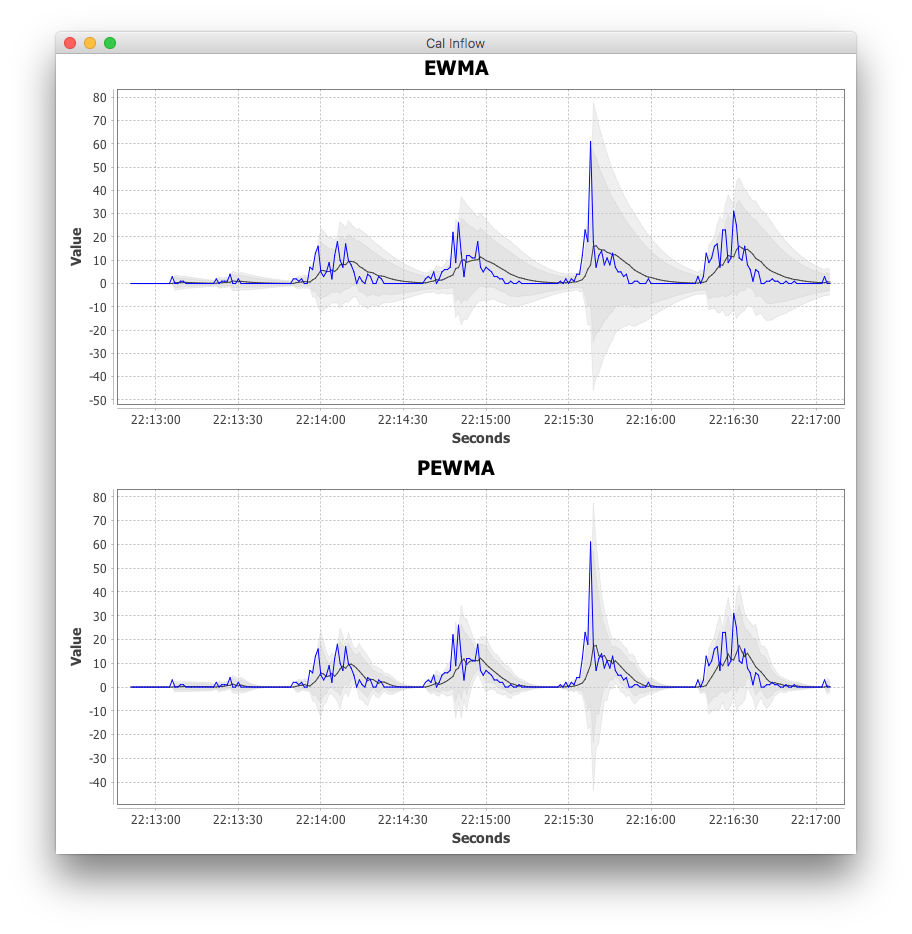
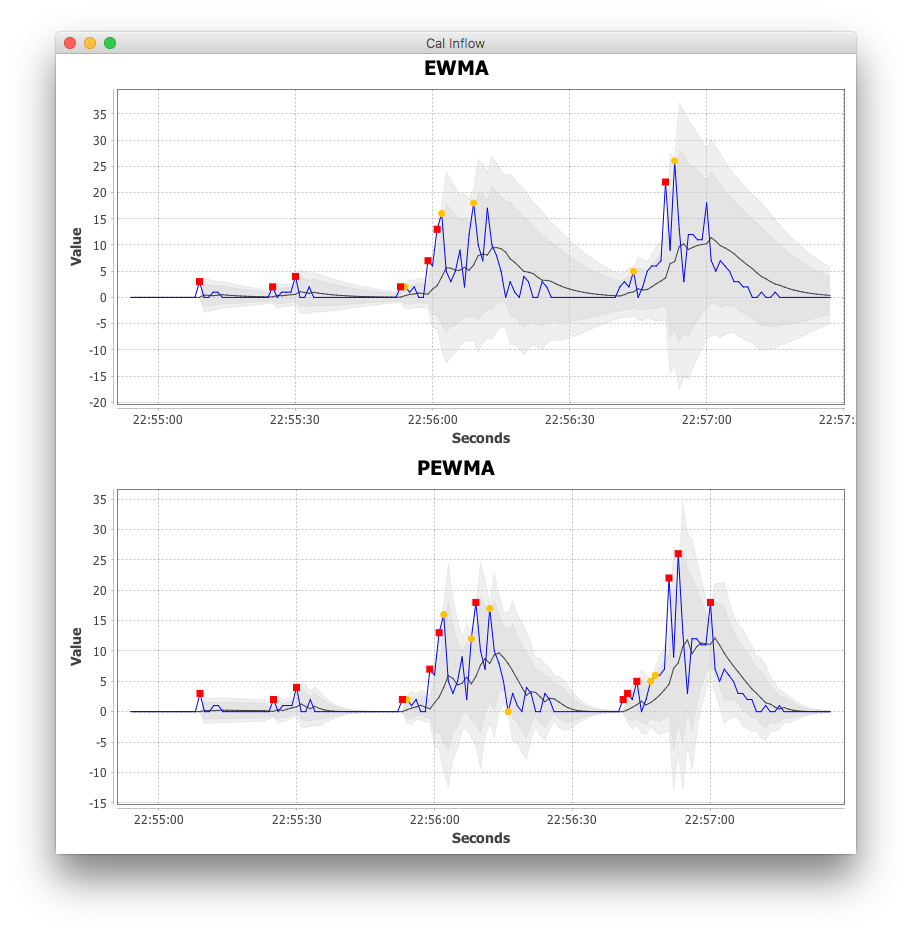
Added outlier markers to the charts

diff --git a/tools/src/main/java/com/expedia/adaptivealerting/tools/visualization/ChartUtil.java b/tools/src/main/java/com/expedia/adaptivealerting/tools/visualization/ChartUtil.java
@@ -38,6 +38,8 @@ import static com.expedia.adaptivealerting.core.util.AssertUtil.notNull;
  * @author Willie Wheeler
  */
 public class ChartUtil {
+    private static final Color STRONG_OUTLIER_COLOR = Color.RED;
+    private static final Color WEAK_OUTLIER_COLOR = new Color(255, 194, 0);
     private static final Color OBSERVED_COLOR = Color.BLUE;
     private static final Color MIDPOINT_COLOR = Color.DARK_GRAY;
     private static final Color THRESHOLD_COLOR = new Color(204, 204, 204, 80);
@@ -46,32 +48,43 @@ public class ChartUtil {
         notNull(title, "title can't be null");
         notNull(chartSeries, "chartSeries can't be null");
         
-        final TimeSeriesCollection strongThreshold = new TimeSeriesCollection();
-        strongThreshold.addSeries(chartSeries.getStrongThresholdUpper());
-        strongThreshold.addSeries(chartSeries.getStrongThresholdLower());
+        final TimeSeriesCollection strongOutlier = new TimeSeriesCollection(chartSeries.getStrongOutlier());
+        final TimeSeriesCollection weakOutlier = new TimeSeriesCollection(chartSeries.getWeakOutlier());
+        
+        final TimeSeriesCollection observed = new TimeSeriesCollection(chartSeries.getObserved());
+        final TimeSeriesCollection midpoint = new TimeSeriesCollection(chartSeries.getMidpoint());
     
         final TimeSeriesCollection weakThreshold = new TimeSeriesCollection();
         weakThreshold.addSeries(chartSeries.getWeakThresholdUpper());
         weakThreshold.addSeries(chartSeries.getWeakThresoldLower());
     
-        final TimeSeriesCollection observed = new TimeSeriesCollection(chartSeries.getObserved());
-        final TimeSeriesCollection midpoint = new TimeSeriesCollection(chartSeries.getMidpoint());
+        final TimeSeriesCollection strongThreshold = new TimeSeriesCollection();
+        strongThreshold.addSeries(chartSeries.getStrongThresholdUpper());
+        strongThreshold.addSeries(chartSeries.getStrongThresholdLower());
         
         final JFreeChart chart = ChartFactory.createTimeSeriesChart(
                 title,
                 "Seconds",
                 "Value",
-                observed,
+                strongOutlier,
                 false,
                 false,
                 false);
         
         final XYPlot plot = chart.getXYPlot();
         
-        plot.setDataset(1, midpoint);
-        plot.setDataset(2, weakThreshold);
-        plot.setDataset(3, strongThreshold);
-    
+        plot.setDataset(1, weakOutlier);
+        plot.setDataset(2, observed);
+        plot.setDataset(3, midpoint);
+        plot.setDataset(4, weakThreshold);
+        plot.setDataset(5, strongThreshold);
+        
+        final XYLineAndShapeRenderer strongOutlierRenderer = new XYLineAndShapeRenderer(false, true);
+        strongOutlierRenderer.setSeriesPaint(0, STRONG_OUTLIER_COLOR);
+        
+        final XYLineAndShapeRenderer weakOutlierRenderer = new XYLineAndShapeRenderer(false, true);
+        weakOutlierRenderer.setSeriesPaint(0, WEAK_OUTLIER_COLOR);
+        
         final XYLineAndShapeRenderer observedRenderer = new XYLineAndShapeRenderer(true, false);
         observedRenderer.setSeriesPaint(0, OBSERVED_COLOR);
         
@@ -88,10 +101,12 @@ public class ChartUtil {
         strongThresholdRenderer.setSeriesPaint(0, THRESHOLD_COLOR);
         strongThresholdRenderer.setSeriesPaint(1, THRESHOLD_COLOR);
         
-        plot.setRenderer(0, observedRenderer);
-        plot.setRenderer(1, midpointRenderer);
-        plot.setRenderer(2, weakThresholdRenderer);
-        plot.setRenderer(3, strongThresholdRenderer);
+        plot.setRenderer(0, strongOutlierRenderer);
+        plot.setRenderer(1, weakOutlierRenderer);
+        plot.setRenderer(2, observedRenderer);
+        plot.setRenderer(3, midpointRenderer);
+        plot.setRenderer(4, weakThresholdRenderer);
+        plot.setRenderer(5, strongThresholdRenderer);
     
         plot.setDomainGridlinePaint(Color.GRAY);
         plot.setRangeGridlinePaint(Color.GRAY);

diff --git a/tools/src/main/java/com/expedia/adaptivealerting/tools/pipeline/sink/ChartSink.java b/tools/src/main/java/com/expedia/adaptivealerting/tools/pipeline/sink/ChartSink.java
@@ -15,14 +15,18 @@
  */
 package com.expedia.adaptivealerting.tools.pipeline.sink;
 
+import com.expedia.adaptivealerting.core.OutlierLevel;
 import com.expedia.adaptivealerting.tools.pipeline.MetricSink;
 import com.expedia.adaptivealerting.tools.visualization.ChartSeries;
 import com.expedia.www.haystack.commons.entities.MetricPoint;
 import org.jfree.data.time.Second;
 import org.jfree.data.time.TimeSeries;
 
+import static com.expedia.adaptivealerting.core.OutlierLevel.STRONG;
+import static com.expedia.adaptivealerting.core.OutlierLevel.WEAK;
 import static com.expedia.adaptivealerting.core.util.AssertUtil.notNull;
 import static com.expedia.adaptivealerting.core.util.MetricPointTags.*;
+import static com.expedia.adaptivealerting.core.util.MetricPointUtil.outlierLevel;
 import static com.expedia.adaptivealerting.core.util.MetricPointUtil.thresholdValue;
 
 public class ChartSink implements MetricSink {
@@ -42,6 +46,8 @@ public class ChartSink implements MetricSink {
         this.currentSecond = (currentSecond == null ? new Second() : (Second) currentSecond.next());
         
         final float observed = metricPoint.value();
+        final OutlierLevel level = outlierLevel(metricPoint);
+        
         chartSeries.getObserved().add(currentSecond, observed);
         
         addPoint(metricPoint, chartSeries.getMidpoint(), PREDICTION);
@@ -49,6 +55,13 @@ public class ChartSink implements MetricSink {
         addPoint(metricPoint, chartSeries.getStrongThresholdLower(), STRONG_THRESHOLD_LOWER);
         addPoint(metricPoint, chartSeries.getWeakThresholdUpper(), WEAK_THRESHOLD_UPPER);
         addPoint(metricPoint, chartSeries.getWeakThresoldLower(), WEAK_THRESHOLD_LOWER);
+        
+        if (level == STRONG) {
+            chartSeries.getStrongOutlier().add(currentSecond, observed);
+        } else if (level == WEAK) {
+            chartSeries.getWeakOutlier().add(currentSecond, observed);
+        }
+        
     }
     
     private void addPoint(MetricPoint metricPoint, TimeSeries timeSeries, String tagName) {

diff --git a/tools/src/main/java/com/expedia/adaptivealerting/tools/visualization/ChartSeries.java b/tools/src/main/java/com/expedia/adaptivealerting/tools/visualization/ChartSeries.java
@@ -29,6 +29,8 @@ public class ChartSeries {
     private final TimeSeries strongThresholdLower = new TimeSeries("strongThresholdLower");
     private final TimeSeries weakThresholdUpper = new TimeSeries("weakThresholdUpper");
     private final TimeSeries weakThresoldLower = new TimeSeries("weakThresholdLower");
+    private final TimeSeries strongOutlier = new TimeSeries("strongOutlier");
+    private final TimeSeries weakOutlier = new TimeSeries("weakOutlier");
     
     public TimeSeries getObserved() {
         return observed;
@@ -52,5 +54,13 @@ public class ChartSeries {
     
     public TimeSeries getWeakThresoldLower() {
         return weakThresoldLower;
+    }
+    
+    public TimeSeries getStrongOutlier() {
+        return strongOutlier;
+    }
+    
+    public TimeSeries getWeakOutlier() {
+        return weakOutlier;
     }
 }
